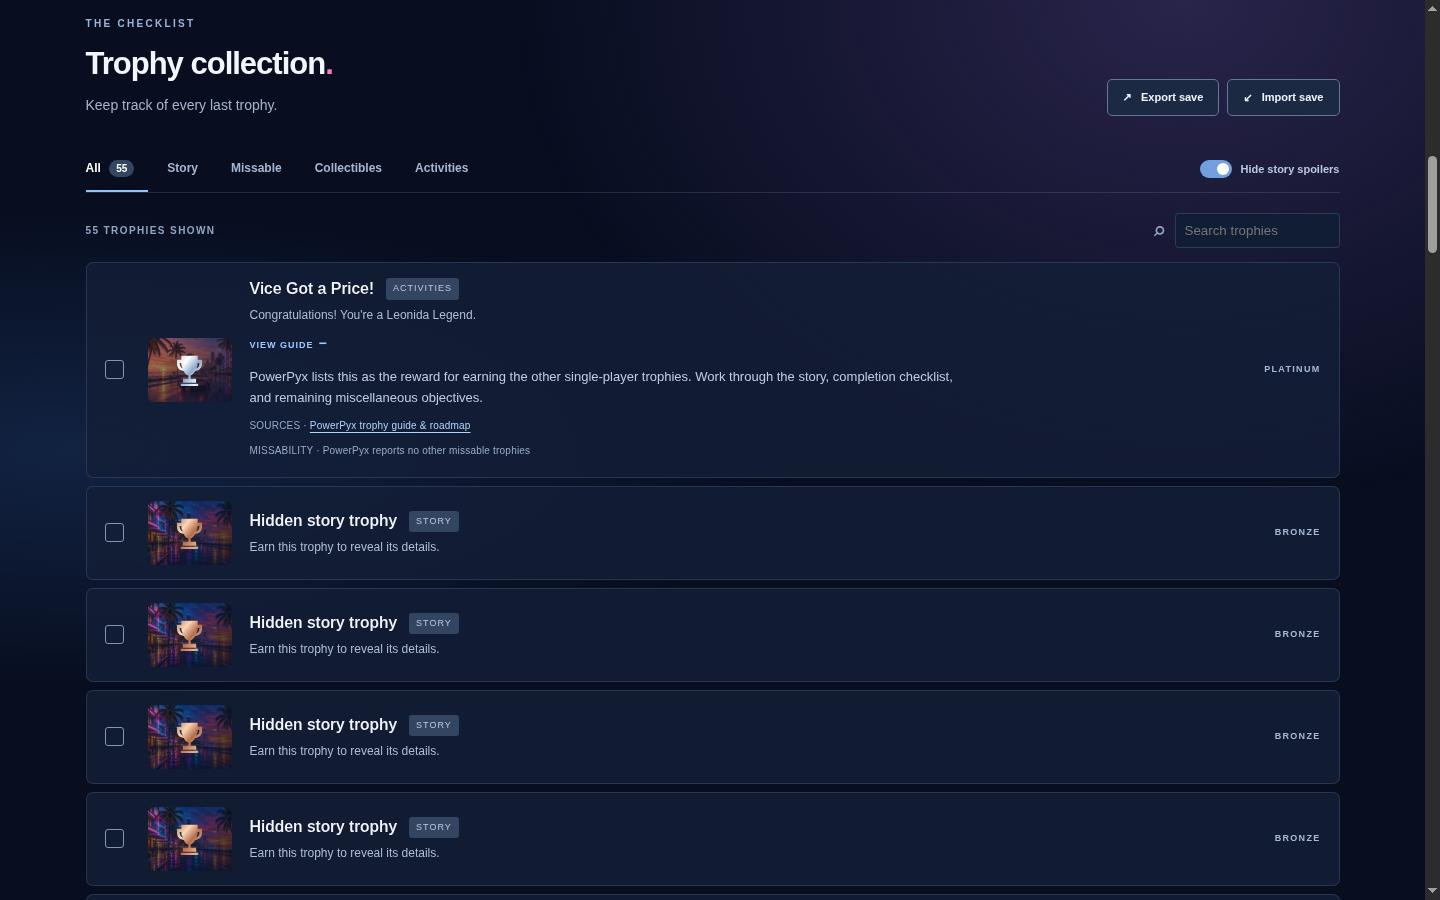
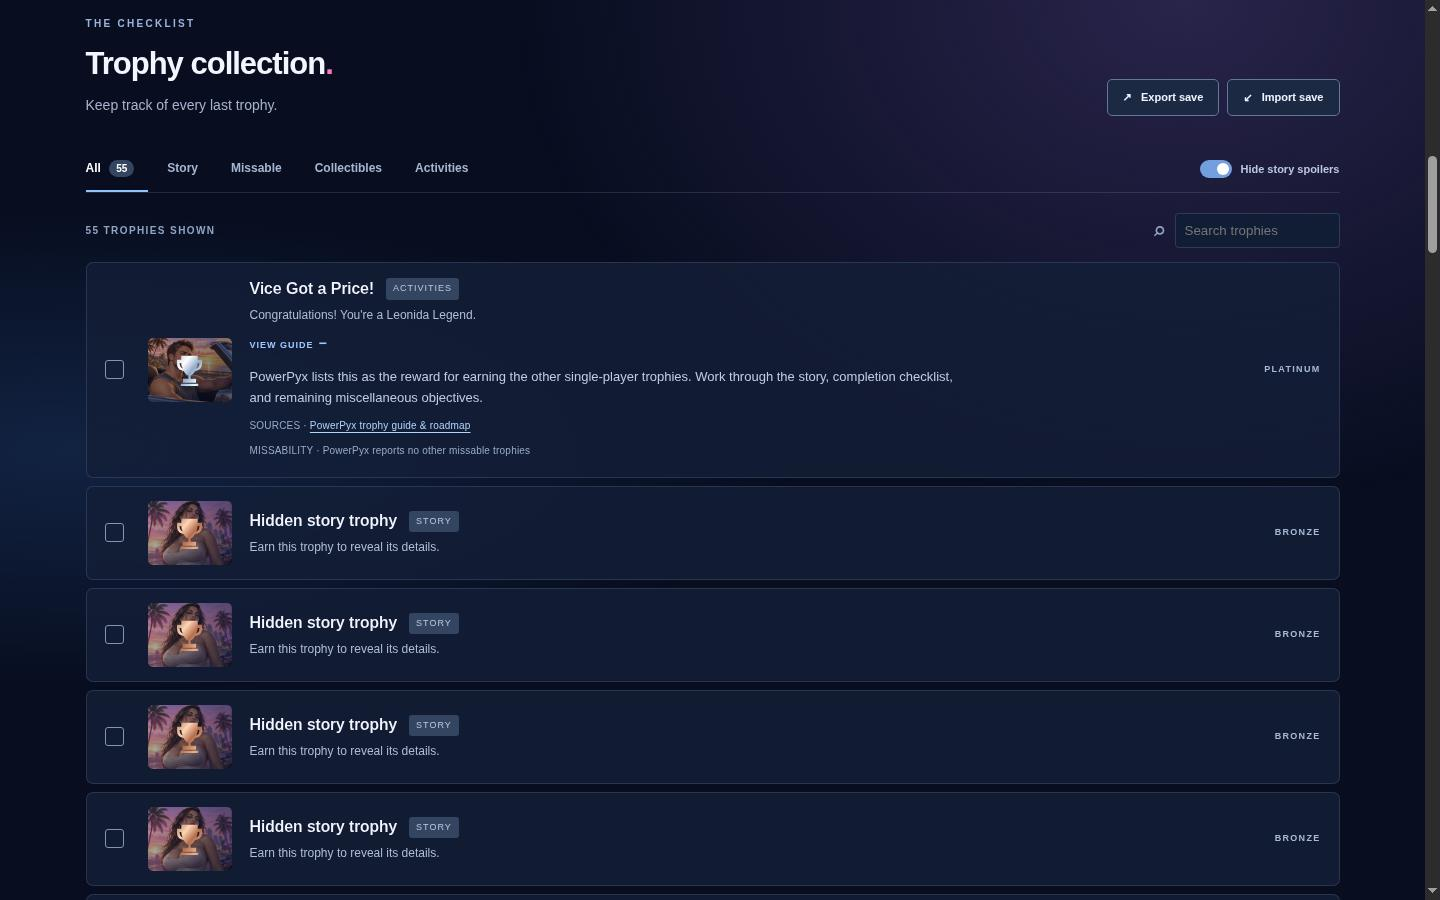
Add original protagonist illustrations

Changed region(s): [[0.0938, 0.5289, 0.1875, 0.7467], [0.0938, 0.7778, 0.1875, 0.9644], [0.0938, 0.3733, 0.1875, 0.4667]]

diff --git a/app/style.css b/app/style.css
@@ -147,3 +147,8 @@ footer{gap:20px;flex-wrap:wrap}
 .guide-facts a,.source a{color:#aed4ff;text-decoration:underline;text-underline-offset:3px}
 @media(max-width:800px){.guide-facts{grid-template-columns:repeat(4,1fr)}.guide-facts p{grid-column:1/-1}}
 @media(max-width:480px){.guide-facts{grid-template-columns:repeat(2,1fr)}.hero{min-height:300px}}
+.hero-art{background:linear-gradient(90deg,rgba(8,14,30,.97) 0%,rgba(8,14,30,.79) 27%,rgba(8,14,30,.08) 65%),linear-gradient(0deg,rgba(8,14,30,.35),transparent 55%),url('assets/duo-hero.jpg') center 10%/cover}
+.stages article:first-child{background-image:linear-gradient(0deg,#101a30 0%,#101a30 34%,transparent 100%),url('assets/lucia.jpg');background-position:center 30%}
+.stages article:nth-child(3){background-image:linear-gradient(0deg,#101a30 0%,#101a30 34%,transparent 100%),url('assets/jason.jpg');background-position:center 30%}
+.kind-story .trophy-icon{background-image:linear-gradient(135deg,#16243e35,#0c132aba),url('assets/lucia.jpg');background-position:center 28%}
+.kind-activities .trophy-icon{background-image:linear-gradient(135deg,#16243e35,#0c132aba),url('assets/jason.jpg');background-position:center 28%}
